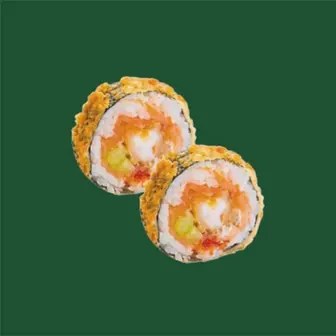
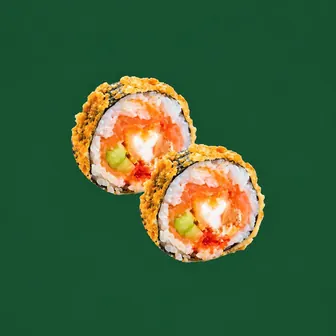
Update photo — Crunchy Eby Tempura

Changed region(s): [[0.2083, 0.2083, 0.8036, 0.8036]]

diff --git a/src/data/dishImages.ts b/src/data/dishImages.ts
@@ -196,7 +196,7 @@ export const CLIENT_DISH_IMAGES: Record<string, string> = {
 
   // Crunchy Roll — captures Yumlo 16-01 (miniatures)
   "5ec25676a2": "/menu-hd-onglet24/crunchy-saumon-avocat.png",
-  "fc97991608": "/menu-hd-onglet24/crunchy-eby-tempura.png",
+  "fc97991608": "/menu-hd-onglet24/crunchy-eby-tempura.jpg",
   "b2336232f7": "/menu-hd-onglet24/crunchy-casablanca.png",
   "b6bb8210a3": "/menu-hd-onglet24/crunchy-tiger-fry.png",
   "e8077d2295": "/menu-hd-onglet24/crunchy-dragon-eyes.png",

diff --git a/src/data/yumloMenu.ts b/src/data/yumloMenu.ts
@@ -1464,7 +1464,7 @@ export const YUMLO_MENU = [
     "description": "Crevette pané, saumon, concombre, tobiko, cheese 6 Pièces",
     "priceMAD": "59.00",
     "currency": "MAD",
-    "image": "/menu-hd-onglet24/crunchy-eby-tempura.png"
+    "image": "/menu-hd-onglet24/crunchy-eby-tempura.jpg"
   },
   {
     "id": "b2336232f7",
